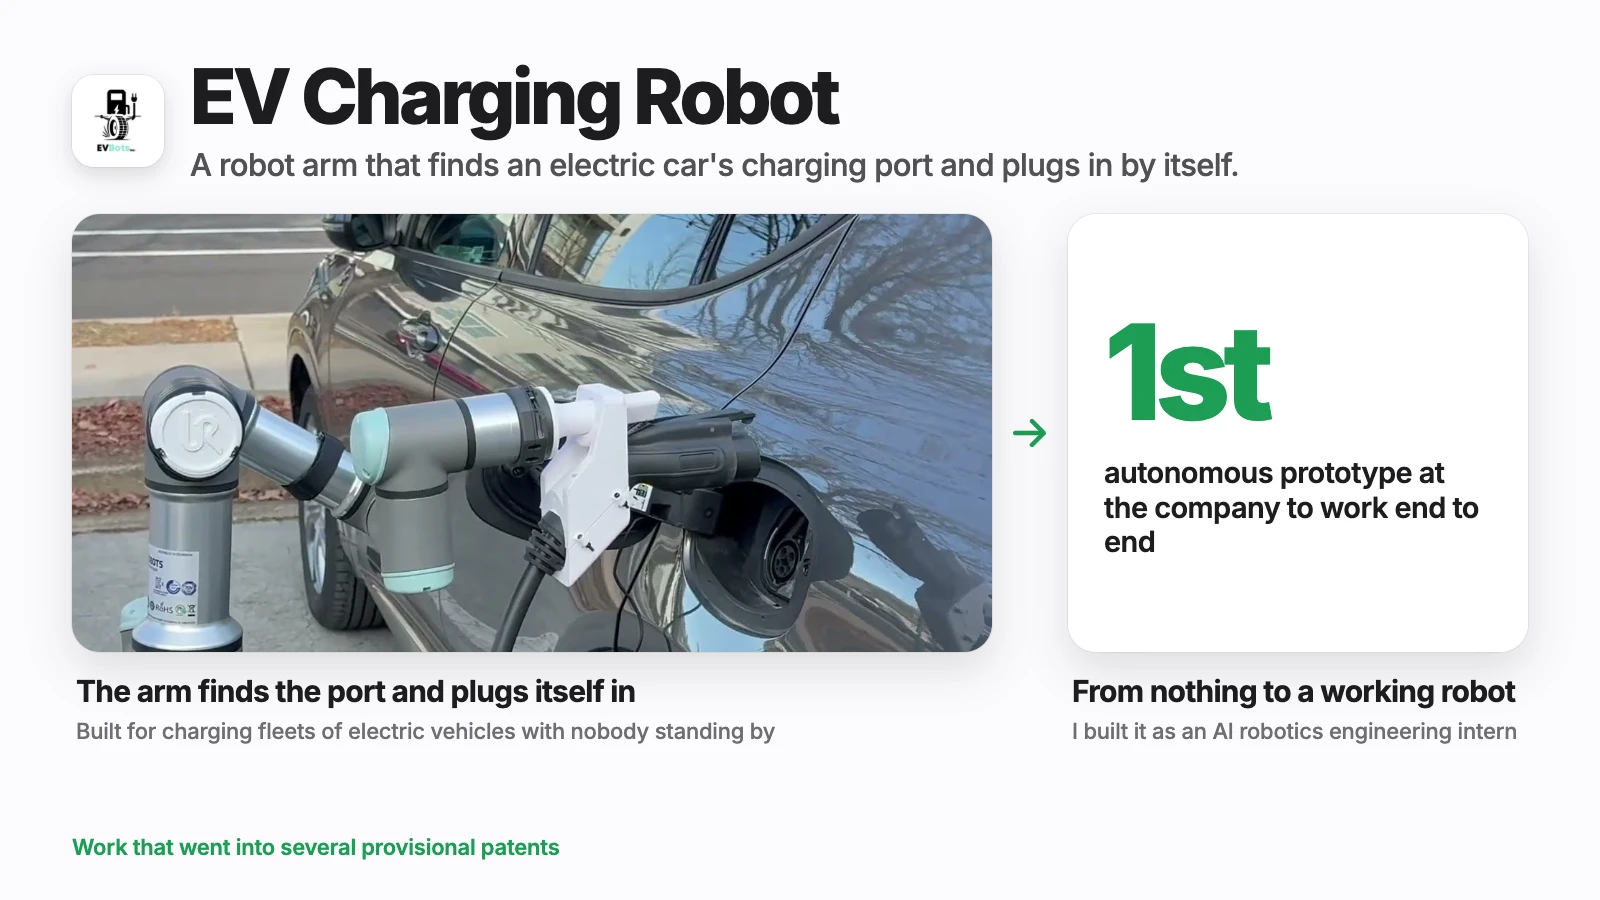
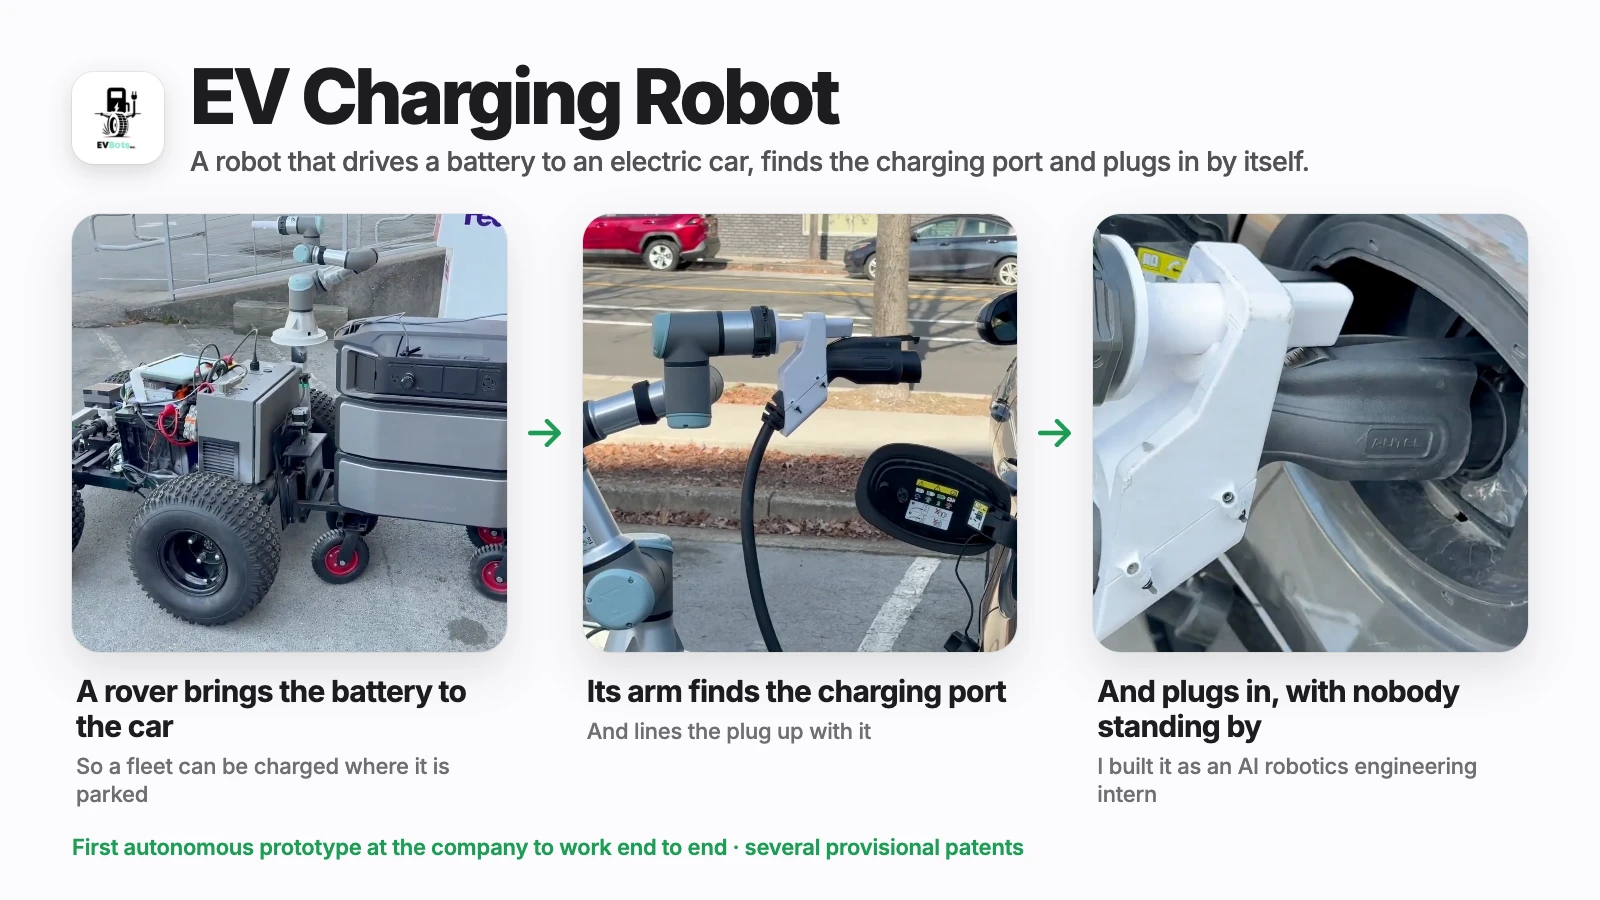
Phones get the About page before any 3D work; two more covers use real footage
On a phone the About page used to open only after the whole world had
been downloaded and compiled, which is the slow part on iOS. It now
opens as soon as the page loads, and the world is built only when the
visitor closes it or taps "Explore the 3D world". In a phone-sized
Chrome the About page is up in about 0.4 s. Presentations opened from
it work without the world.

The loading indicator no longer shows through pages that cover it.

EV Bots and Kinetix covers are rebuilt from their demo videos: the
rover with its battery, the arm at the charging port and the plug going
in; the joint tracking, the spoken verdict on a rep and the rep count.

diff --git a/sources/data/explainers.js b/sources/data/explainers.js
@@ -83,11 +83,12 @@ export const explainers = {
 
     evbots: {
         accent: '#1f9d55',
-        line: 'A robot arm that finds an electric car\'s charging port and plugs in by itself.',
-        proof: 'Work that went into several provisional patents',
+        line: 'A robot that drives a battery to an electric car, finds the charging port and plugs in by itself.',
+        proof: 'First autonomous prototype at the company to work end to end · several provisional patents',
         panels: [
-            { img: 'scripts/shots/raw/yt_2A_RMrd1qKo.jpg', span: 2, caption: 'The arm finds the port and plugs itself in', sub: 'Built for charging fleets of electric vehicles with nobody standing by' },
-            { draw: 'stat', value: '1st', label: 'autonomous prototype at the company to work end to end', caption: 'From nothing to a working robot', sub: 'I built it as an AI robotics engineering intern' },
+            { img: `${SRC}/evbots-rover.jpg`, position: '45% center', caption: 'A rover brings the battery to the car', sub: 'So a fleet can be charged where it is parked' },
+            { img: `${SRC}/evbots-reach.jpg`, position: '40% center', caption: 'Its arm finds the charging port', sub: 'And lines the plug up with it' },
+            { img: `${SRC}/evbots-plug.jpg`, caption: 'And plugs in, with nobody standing by', sub: 'I built it as an AI robotics engineering intern' },
         ],
     },
 
@@ -96,9 +97,9 @@ export const explainers = {
         line: 'A physical therapy coach that watches you exercise through a webcam and corrects your form out loud.',
         proof: 'I was 1 of 3 high schoolers accepted to the hackathon, out of 1,500+ applicants',
         panels: [
-            { img: 'scripts/shots/raw/yt_-k4Ks9YATTI.jpg', position: '55% center', caption: 'A webcam watches you exercise', sub: 'It reads your pose and measures your joint angles' },
-            { draw: 'say', who: 'For example, it says', spoken: true, text: 'Get into starting position: arms straight, body aligned.', caption: 'It tells you what to fix, out loud', sub: 'While you are still mid-rep' },
-            { draw: 'apps', items: [ 'Reps counted', 'Holds timed', 'Form checked each rep' ], caption: 'And keeps count for you', sub: 'Feedback also shows in a Meta Quest headset' },
+            { img: `${SRC}/kinetix-track.jpg`, position: '55% center', caption: 'A webcam tracks your joints', sub: 'It measures the angles at your elbows, shoulders and hips' },
+            { img: `${SRC}/kinetix-judge.jpg`, position: '50% center', caption: 'It judges each rep and says so, out loud', sub: 'Good form, or what to fix, while you are still moving' },
+            { img: `${SRC}/kinetix-count.jpg`, position: '60% center', caption: 'It counts reps and holds for you', sub: 'Feedback also shows in a Meta Quest headset' },
         ],
     },
 

diff --git a/sources/Game/Game.js b/sources/Game/Game.js
@@ -98,6 +98,13 @@ export class Game
         this.menu = new Menu()
         this.profile = new Profile()
         this.keynote = new Keynote()
+
+        // On a phone the About page comes first, and the 3D world is only
+        // downloaded and built once the visitor asks for it
+        const phone = Math.min(window.innerWidth, window.innerHeight) < 600 && matchMedia('(pointer: coarse)').matches
+        if(phone && !location.hash.match(/skip|world/i))
+            await this.aboutFirst()
+
         this.rendering = new Rendering()
         await this.rendering.setRenderer()
 
@@ -214,6 +221,52 @@ export class Game
         {
             this.achievements.setProgress('debug', 1)
         }
+    }
+
+    /**
+     * Shows the About page and waits. Resolves when it is closed (or its
+     * "Explore the 3D world" button is used), which lets init() carry on.
+     */
+    aboutFirst()
+    {
+        return new Promise((resolve) =>
+        {
+            // Nothing drives the ticker until there is a renderer
+            let waiting = true
+            const loop = (time) =>
+            {
+                if(!waiting)
+                    return
+
+                this.ticker.update(time)
+                requestAnimationFrame(loop)
+            }
+            requestAnimationFrame(loop)
+
+            this.startWorld = () =>
+            {
+                if(!waiting)
+                    return
+
+                waiting = false
+                this.startWorld = null
+                this.inputs.filters.clear()
+                this.inputs.filters.add('intro')
+                resolve()
+            }
+
+            // Closed with nothing else opening after it (a presentation, say)
+            this.modals.events.on('closed', () =>
+            {
+                setTimeout(() =>
+                {
+                    if(this.startWorld && this.modals.state === Modals.CLOSED)
+                        this.startWorld()
+                }, 120)
+            })
+
+            this.profile.open()
+        })
     }
 
     reset()

diff --git a/sources/Game/Reveal.js b/sources/Game/Reveal.js
@@ -53,12 +53,6 @@ export class Reveal
         {
             document.documentElement.classList.add('is-ready')
 
-            // On a phone the About page comes first: it says everything
-            // without any driving. The world is one tap away from there.
-            const phone = Math.min(window.innerWidth, window.innerHeight) < 600 && matchMedia('(pointer: coarse)').matches
-            if(phone && !location.hash.match(/skip|world/i))
-                this.game.ticker.wait(2, () => { this.game.profile.open() })
-
             // Intro loader => Hide circle
             this.game.world.intro.circle.hide(() =>
             {

diff --git a/sources/Game/Menu.js b/sources/Game/Menu.js
@@ -58,7 +58,7 @@ export class Menu
         {
             event.preventDefault()
 
-            if(this.game.world.areas?.circuit?.state === CircuitArea.STATE_RUNNING || this.game.world.areas?.circuit?.state === CircuitArea.STATE_STARTING)
+            if(this.game.world?.areas?.circuit?.state === CircuitArea.STATE_RUNNING || this.game.world?.areas?.circuit?.state === CircuitArea.STATE_STARTING)
                 this.open('circuit')
             else
                 this.open()

diff --git a/sources/Game/Profile.js b/sources/Game/Profile.js
@@ -487,7 +487,8 @@ export class Profile
      */
     showInWorld(areaName, index)
     {
-        const area = this.game.world.areas?.[areaName]
+        // (on a phone the world may not be built yet)
+        const area = this.game.world?.areas?.[areaName]
         this.game.modals.close()
 
         if(!area)

diff --git a/sources/Game/Keynote.js b/sources/Game/Keynote.js
@@ -282,7 +282,7 @@ export class Keynote
             })
         })
 
-        this.game.achievements.setProgress(this.type === 'projects' ? 'projects' : 'lab', entry.id)
+        this.game.achievements?.setProgress(this.type === 'projects' ? 'projects' : 'lab', entry.id)
     }
 
     /**
